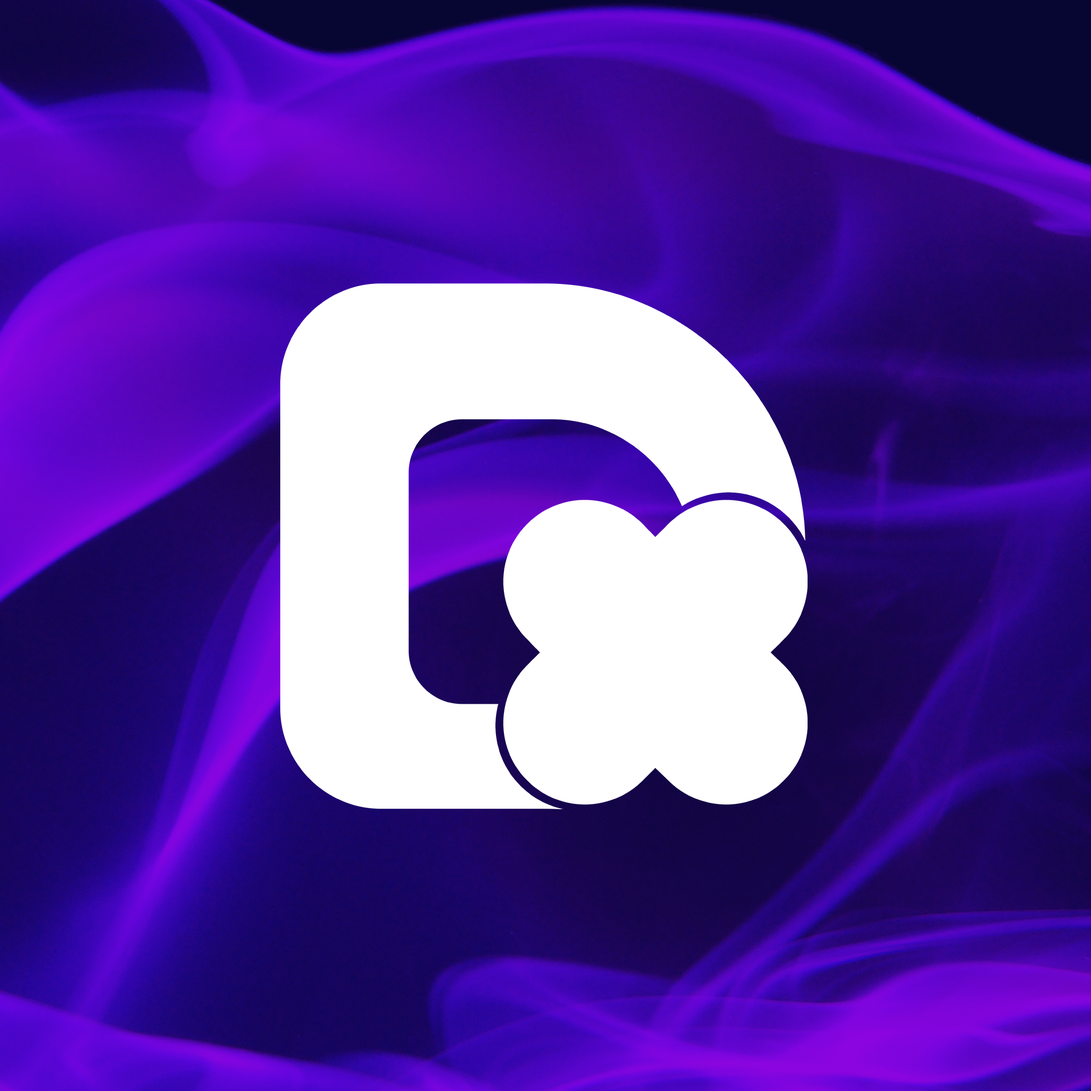
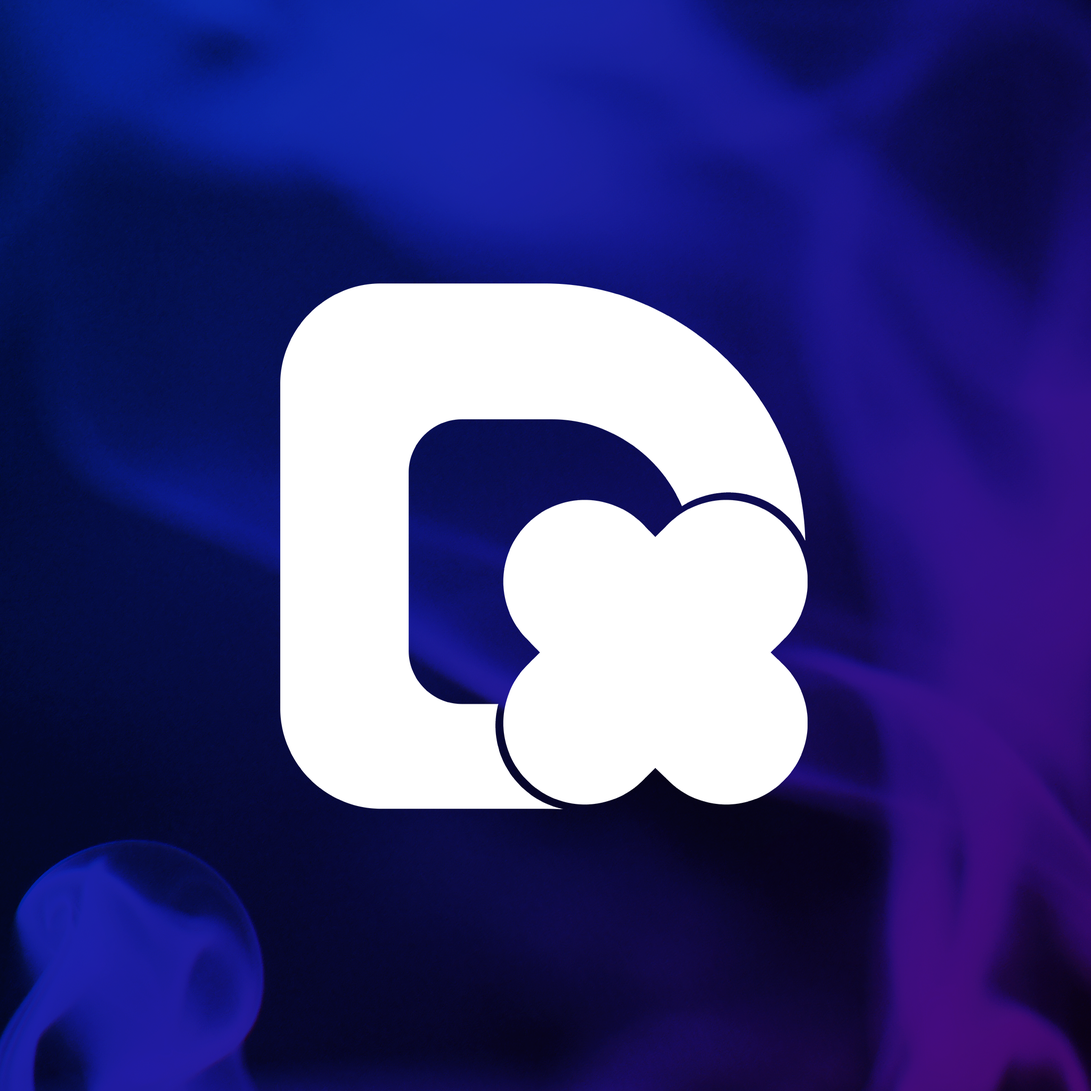
Fixes.

diff --git a/index.html b/index.html
@@ -69,11 +69,7 @@
 					<a href="https://github.com/MrCamDtix">
 						<i class="fab fa-github"></i>
 					</a>
-<<<<<<< HEAD
-					<a href="https://pastebin.com/raw/abJ9BuzG">
-=======
 					<a href="https://shirodiscord.xyz/">
->>>>>>> 536b6c5fd3b4272f6c0abe12ffa12943f11416d1
 						<i class="fab fa-discord"></i>
 					</a>
 				</div>
@@ -94,11 +90,7 @@
 				</p>
 
 				<p class="title is-4">Discord</p>
-<<<<<<< HEAD
-				<p class="subtitle is-6">I'm always on Discord, come and chat with me.</p>
-=======
 				<p class="subtitle is-6">I'm always on Discord, come and chat with me Cameron#2704.
->>>>>>> 536b6c5fd3b4272f6c0abe12ffa12943f11416d1
 
 				<p class="subtitle is-5">I am pretty much always at my PC, if I don't answer right away I will sooner or later as I do have a life and school is a part of it. </p>
 			</div>
@@ -106,13 +98,8 @@
 		<footer class="footer animated fadeIn" style="padding: 0">
 			<p class="subtitle is-7 has-text-centered has-text-black" style="font-weight: bolder">Contact me on my main socials!</p>
 			<a href="https://twitter.com/CameronDtix"><i class="fab fa-twitter footer-icon"></i></a> <p class="has-text-black">@CameronDtix</p>
-<<<<<<< HEAD
-			<a href="#"><i class="fab fa-discord footer-icon"></i></a> <a href="https://pastebin.com/tRRbQATM"><p class="has-text-black">Cameron Dtix#0001</p></a>
-			<a href="mailto:clarkyaka1@gmail.com"><i class="far fa-envelope footer-icon"></i></a> <p class="has-text-black">clarkyaka1@gmail.com</p>
-=======
 			<a href="#"><i class="fab fa-discord footer-icon"></i></a> <a href="https://camerondtix.com/"><p class="has-text-black">Cameron#2704</p></a>
 			<a href="mailto:clarkyaka1@gmail.com" class="has-text-black"><i class="far fa-envelope footer-icon"></i><br>clarkyaka1@gmail.com</a>
->>>>>>> 536b6c5fd3b4272f6c0abe12ffa12943f11416d1
 			<div class="background-section">
 				<p class="subtitle is-7 has-text-white">Site by <a href="https://camerondtix.com" style="color: white">Cameron Clark</a> and <a href="https://danjamesbee.tk" style="color: white">Dan Bee</a></p>
 				<p class="subtitle is-7 has-text-white">© 2019 Cameron Dtix. All rights reserved.</p>

diff --git a/css/style.css b/css/style.css
@@ -3,29 +3,6 @@
 body {
 	font-family: 'Montserrat', sans-serif;
 	color: black;
-<<<<<<< HEAD
-	/* Code from samonyt.xyz */
-	background: url('../img/banner.png') center/cover;
-
-	/* Code from da532.com */
-	@-webkit-keyframes fade {
-        0%{background-position:0% 4%}
-        100%{background-position:0% 100%}
-    }
-    @-moz-keyframes fade {
-        0%{background-position:0% 4%}
-        100%{background-position:0% 100%}
-    }
-    @-o-keyframes fade {
-        0%{background-position:0% 4%}
-        100%{background-position:0% 100%}
-    }
-    @keyframes fade { 
-        0%{background-position:0% 4%}
-        100%{background-position:0% 100%}
-    }
-=======
->>>>>>> 536b6c5fd3b4272f6c0abe12ffa12943f11416d1
 }
 
 .title, .subtitle, p {
@@ -93,11 +70,7 @@ a.navbar-item p {
 
 .background-section {
 	padding: 15px 0;
-<<<<<<< HEAD
-	background: #651cae;
-=======
 	background: #1034cc;
->>>>>>> 536b6c5fd3b4272f6c0abe12ffa12943f11416d1
 	margin-top: 25px;
 }
 
@@ -167,20 +140,14 @@ a.navbar-item p {
 
 #banner {
 	padding: 200px 0;
-<<<<<<< HEAD
-=======
 	background: url('../img/banner.png') center/cover;
->>>>>>> 536b6c5fd3b4272f6c0abe12ffa12943f11416d1
 }
 .banner {
 	position: relative;
 }
-<<<<<<< HEAD
-=======
 .banner a {
 	color: #fff !important;
 }
->>>>>>> 536b6c5fd3b4272f6c0abe12ffa12943f11416d1
 .banner:before {
 	content: "";
 	position: absolute;
@@ -215,11 +182,7 @@ a.navbar-item p {
 	margin: 0 5px;
 }
 .main-section .socials a:hover .fab {
-<<<<<<< HEAD
-	color: #823ae0;
-=======
 	color: #1034cc;
->>>>>>> 536b6c5fd3b4272f6c0abe12ffa12943f11416d1
 }
 .main-section .socials a .fab {
 	color: #fff;
@@ -235,8 +198,6 @@ a.navbar-item p {
 }
 .white-section .title.is-4 {
 	margin-top: 25px;
-<<<<<<< HEAD
-=======
 }
 .white-section img {
     width: 256px;
@@ -245,5 +206,4 @@ a.navbar-item p {
 }
 .white-section img:hover {
     transform: rotate(360deg);
->>>>>>> 536b6c5fd3b4272f6c0abe12ffa12943f11416d1
 }

diff --git a/devices.html b/devices.html
@@ -9,20 +9,8 @@
 				padding-top: 500px;
 				padding-bottom: 10px;
 			}
-<<<<<<< HEAD
-			.banner:after {
-				content: "";
-				position: absolute;
-				bottom: 15px !important;
-				left: 50%;
-				transform: translateX(-50%);
-				height: 2px;
-				width: 200px;
-				background: #fff;
-=======
 			#banner {
 				padding: 75px 0 !important;
->>>>>>> 536b6c5fd3b4272f6c0abe12ffa12943f11416d1
 			}
 		</style>
 		<meta charset="utf-8">
@@ -60,11 +48,7 @@
 				</a>
 			</div>
 			<div class="navbar-end">
-<<<<<<< HEAD
-				<a href="https://pastebin.com/raw/abJ9BuzG" class="navbar-item">
-=======
 				<a href="" class="navbar-item">
->>>>>>> 536b6c5fd3b4272f6c0abe12ffa12943f11416d1
 					<p>
 					</p>
 				</a>
@@ -105,11 +89,7 @@
 								<br>
 								<strong>HDD:</strong> 2TB Baracuda
 								<br>
-<<<<<<< HEAD
-								<p style="font-size: 0.92rem"><strong>OS:</strong> MacOS High Sierra (10.13.6), Windows 8.1 (Aero 8)</p>
-=======
 								<p style="font-size: 0.92rem"><strong>OS:</strong> MacOS High Sierra (10.13.6), Aero10 (Windows 10 LTSB 2016)</p>
->>>>>>> 536b6c5fd3b4272f6c0abe12ffa12943f11416d1
 								<br>
 							</div>
 						</div>

diff --git a/branding.html b/branding.html
@@ -9,20 +9,8 @@
 				padding-top: 500px;
 				padding-bottom: 10px;
 			}
-<<<<<<< HEAD
-			.banner:after {
-				content: "";
-				position: absolute;
-				bottom: 15px !important;
-				left: 50%;
-				transform: translateX(-50%);
-				height: 2px;
-				width: 200px;
-				background: #fff;
-=======
 			#banner {
 				padding: 50px 0 !important;
->>>>>>> 536b6c5fd3b4272f6c0abe12ffa12943f11416d1
 			}
 		</style>
 		<meta charset="utf-8">
@@ -60,11 +48,7 @@
 				</a>
 			</div>
 			<div class="navbar-end">
-<<<<<<< HEAD
-				<a href="https://pastebin.com/raw/abJ9BuzG" class="navbar-item">
-=======
 				<a href="" class="navbar-item">
->>>>>>> 536b6c5fd3b4272f6c0abe12ffa12943f11416d1
 					<p>
 					</p>
 				</a>
